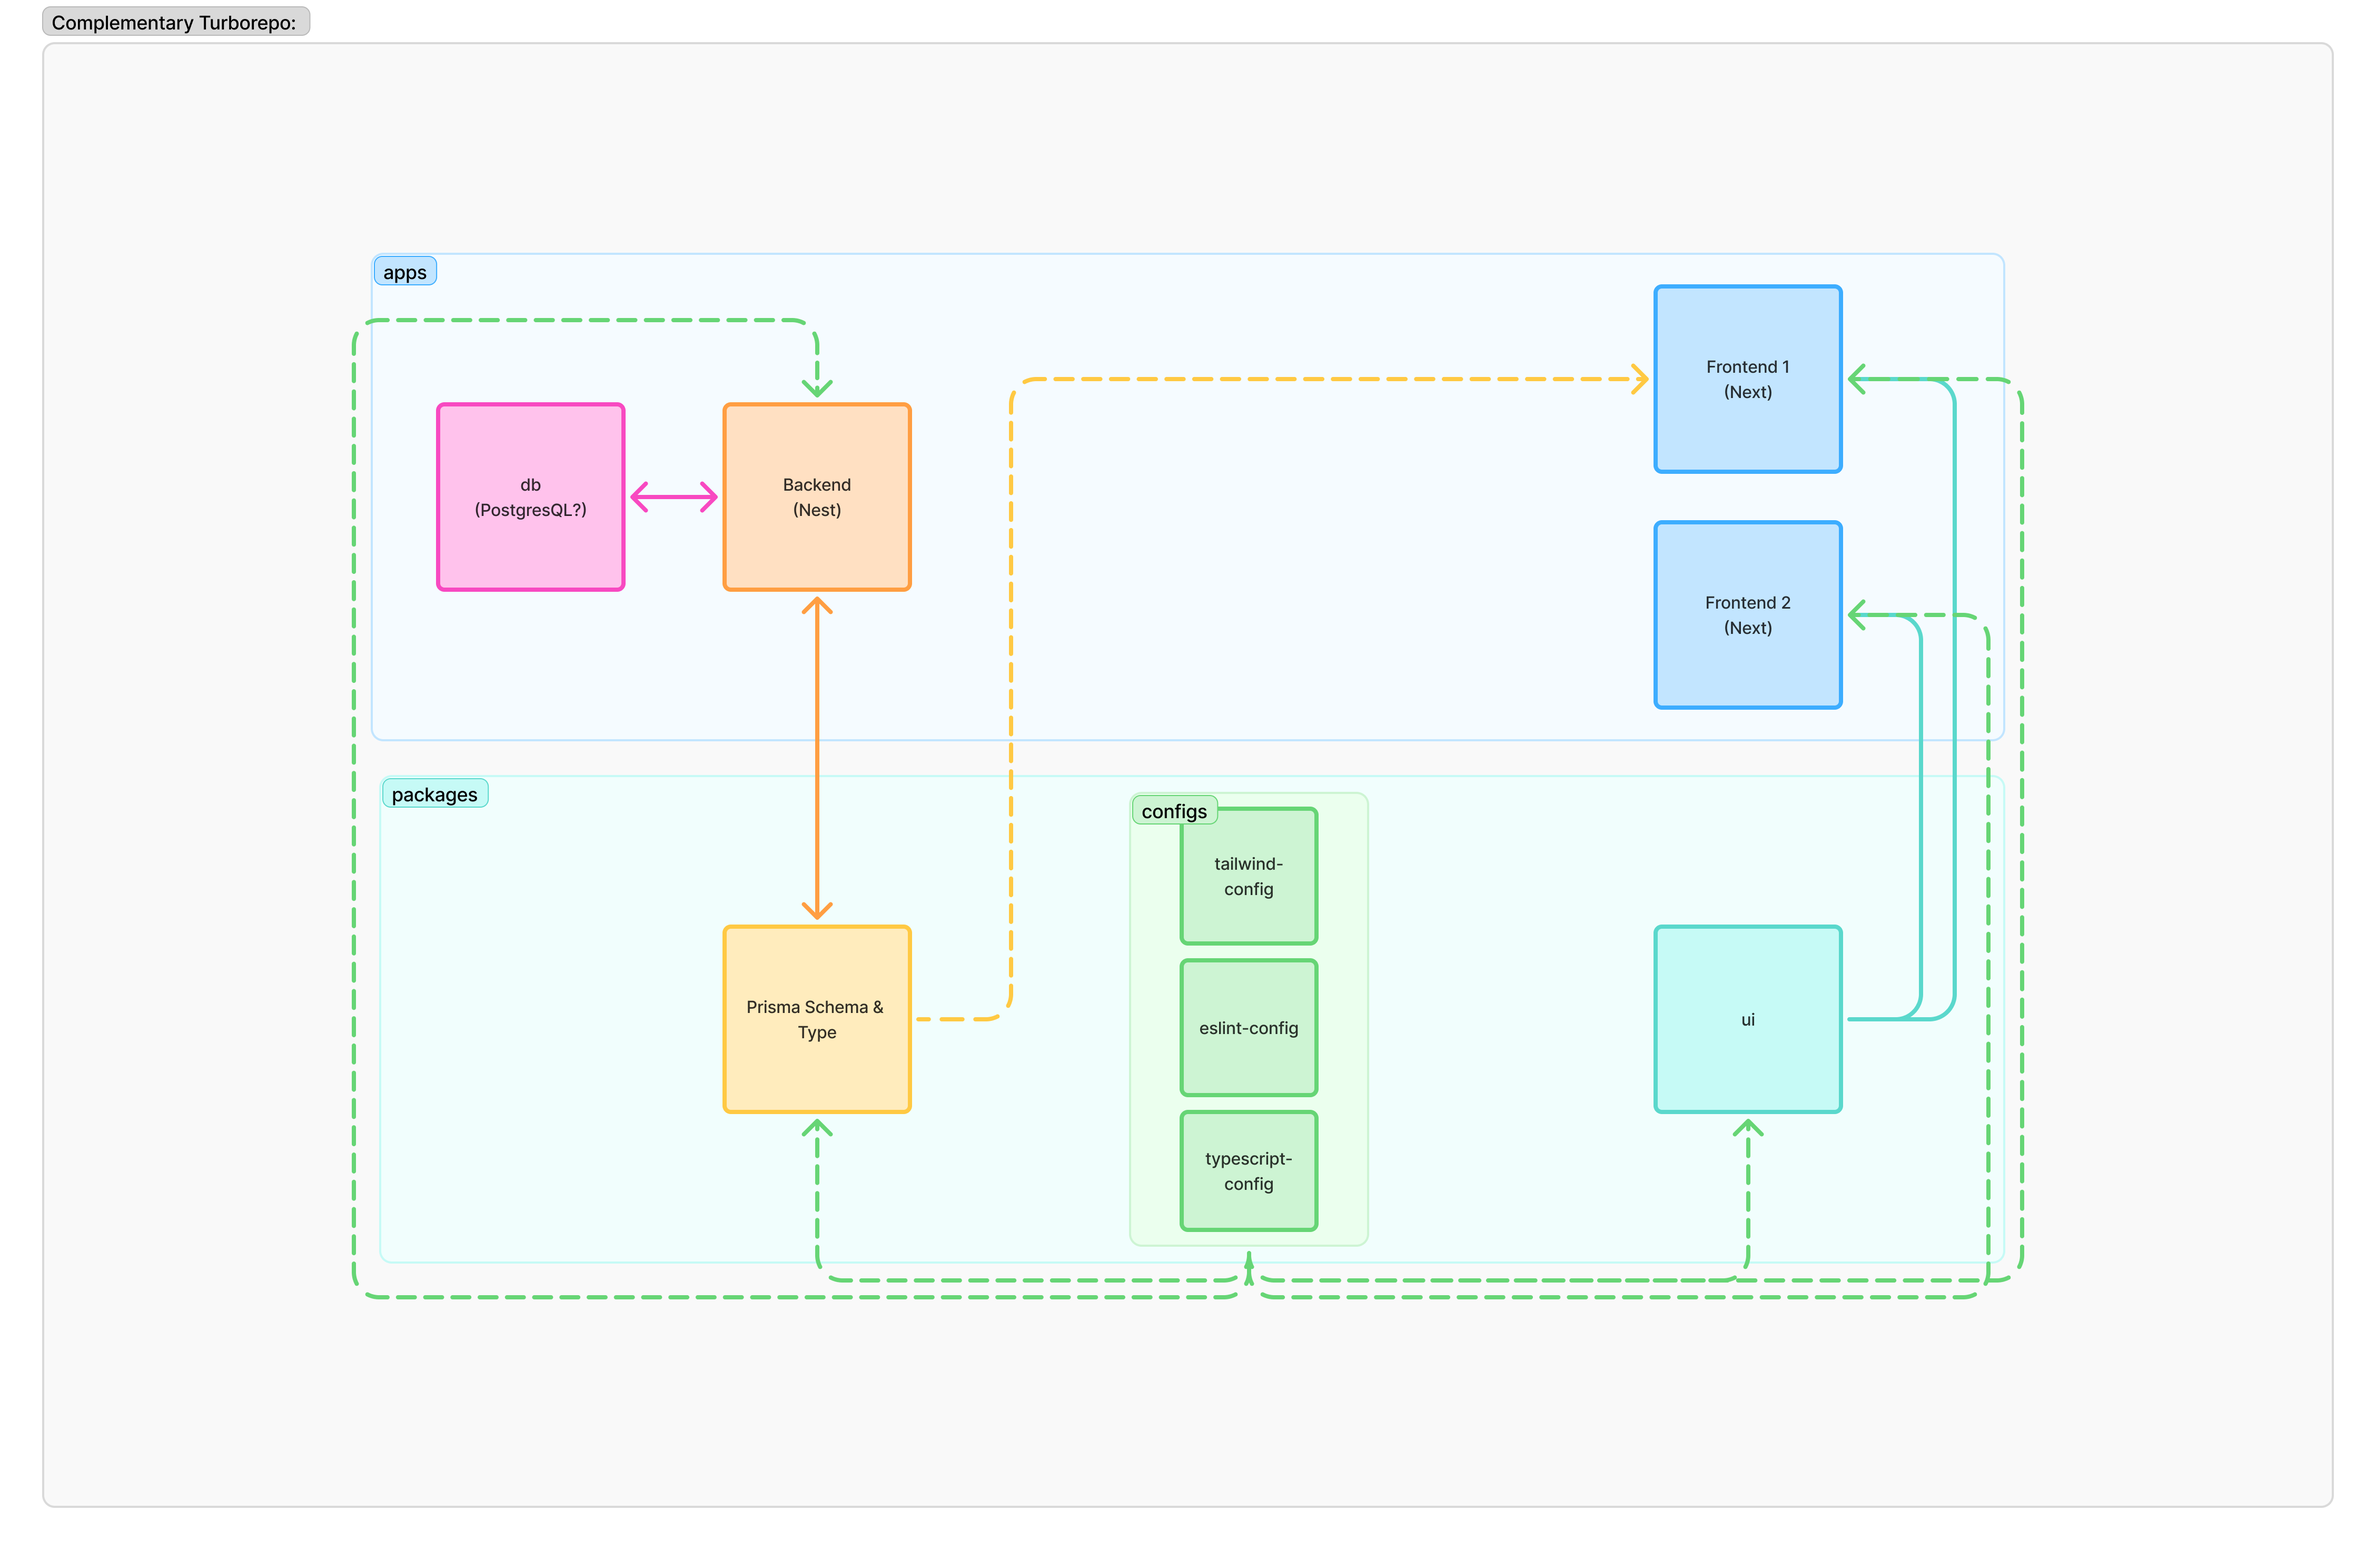
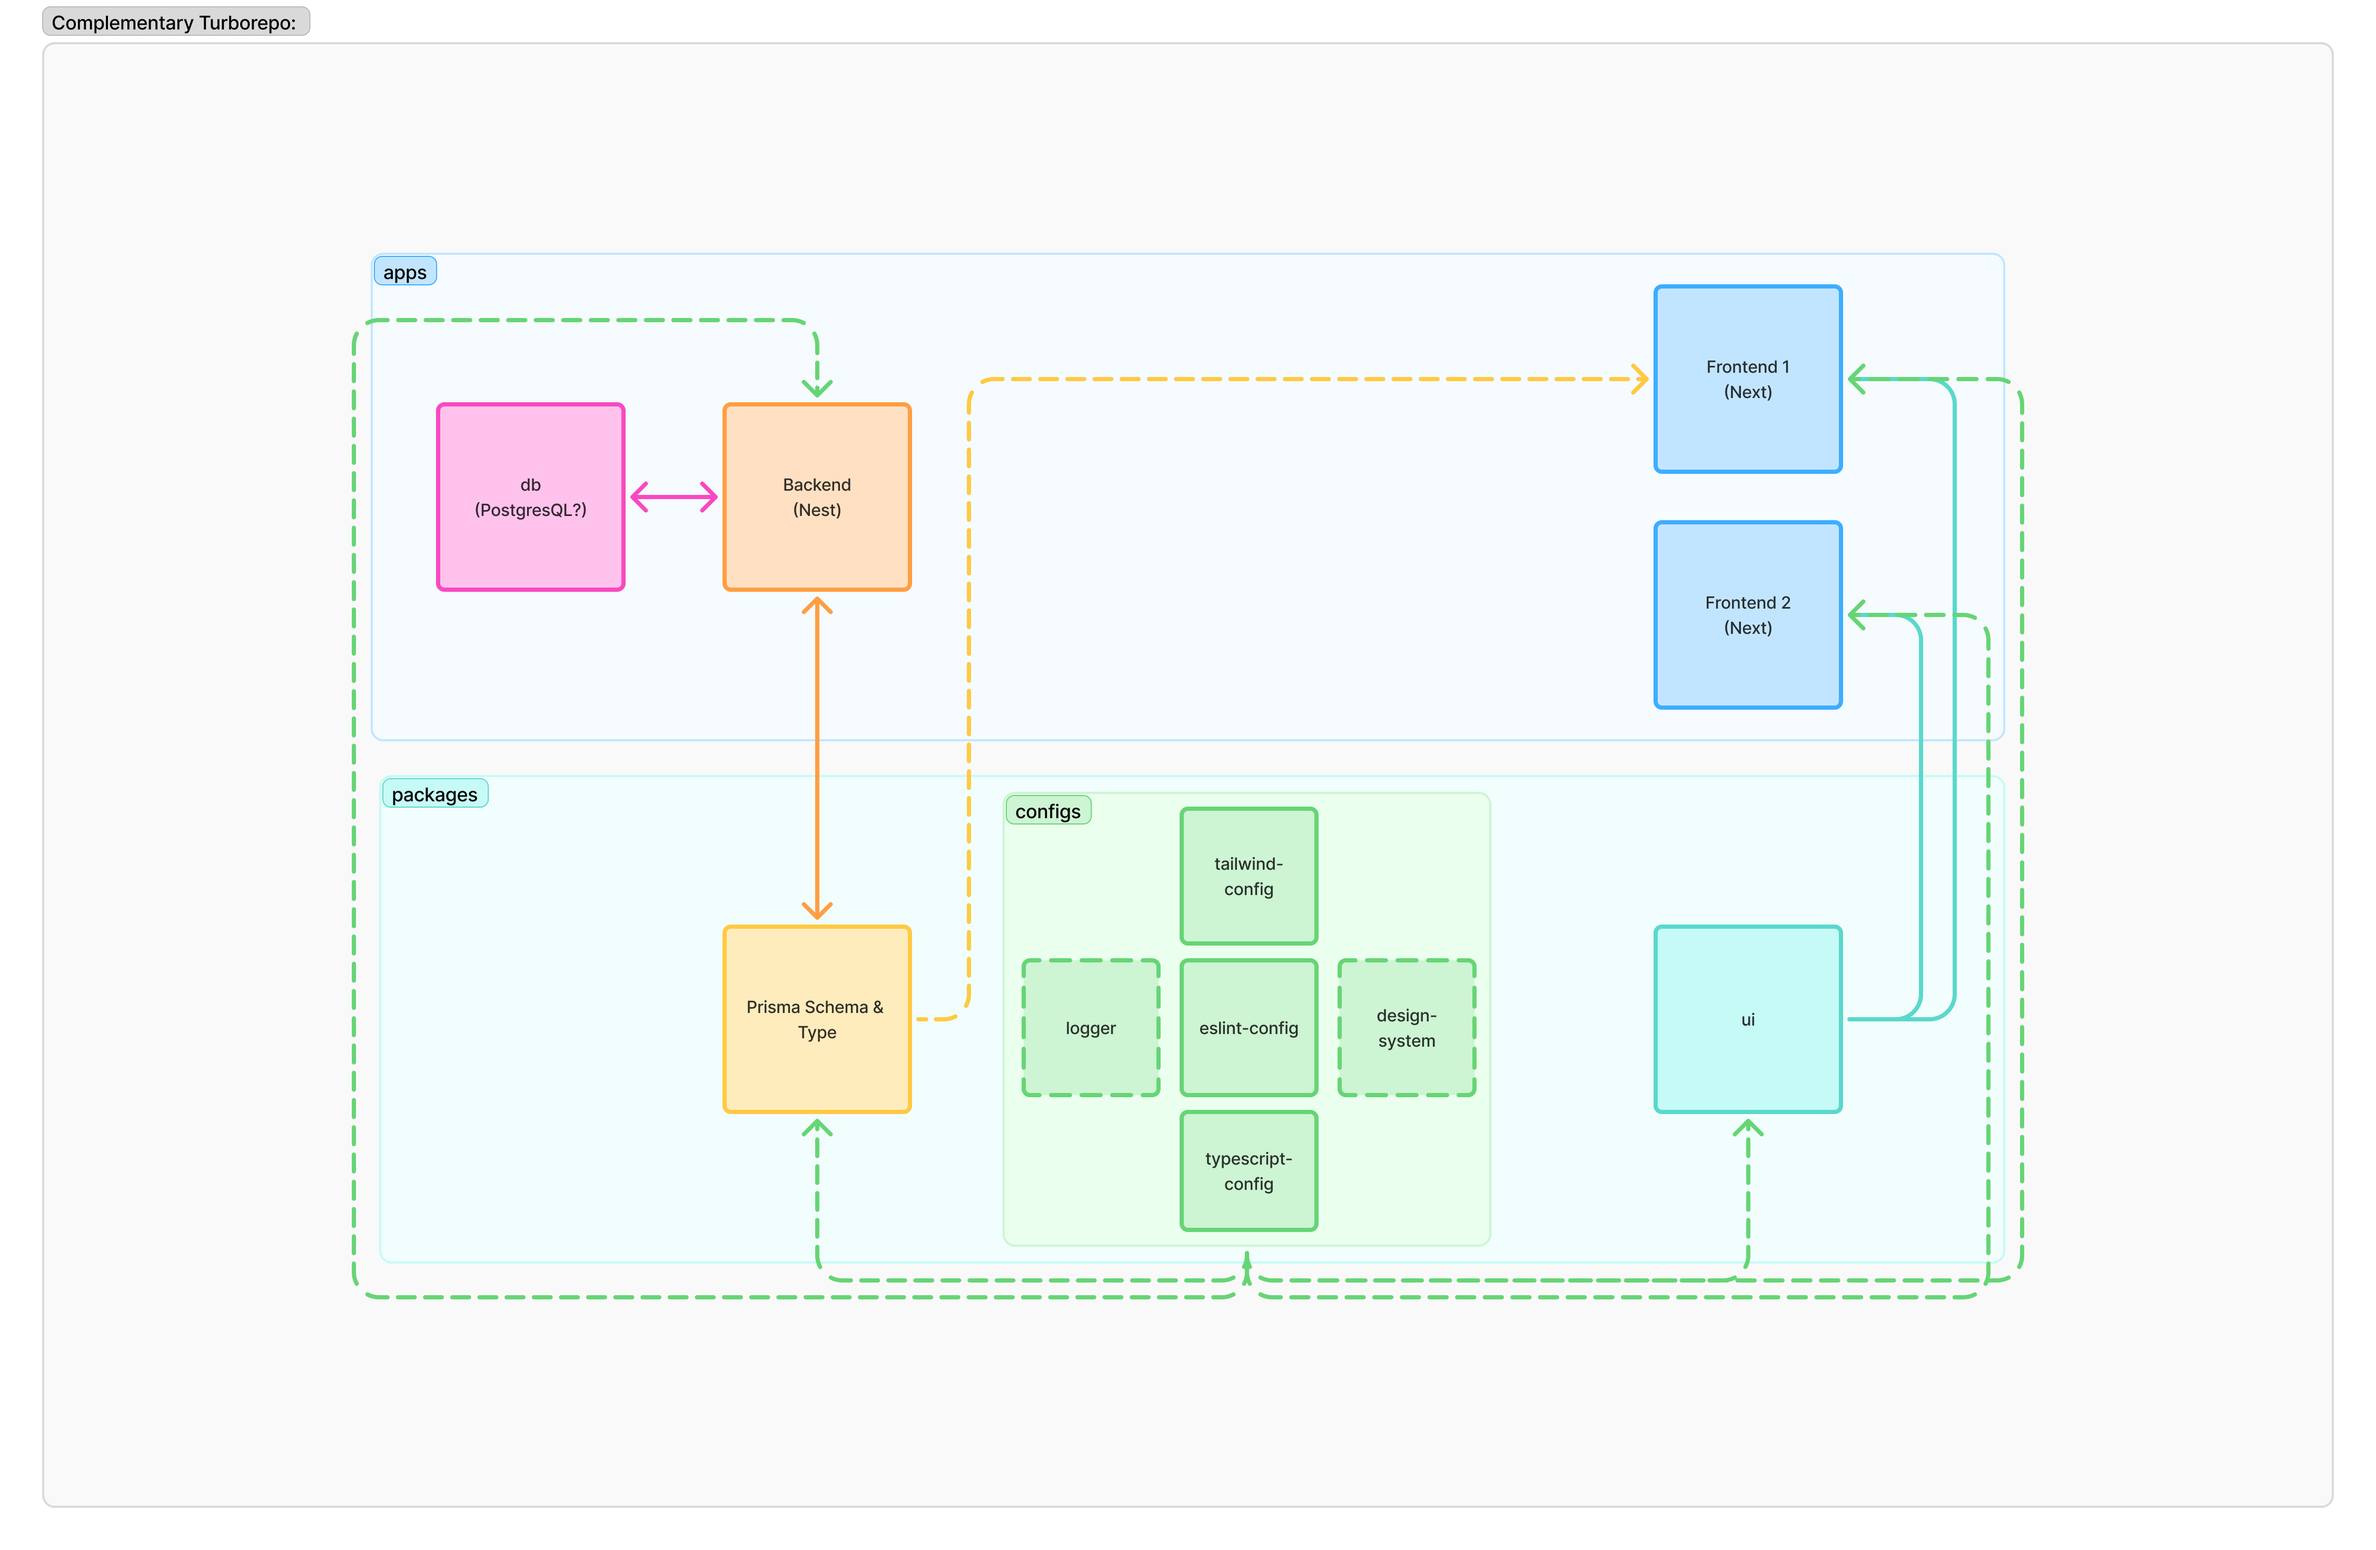
feat(docs): update README.md

Changed region(s): [[0.4062, 0.5, 0.5312, 0.7188], [0.5625, 0.5938, 0.625, 0.7188]]

diff --git a/README.md b/README.md
@@ -11,27 +11,42 @@ This Turborepo includes the following packages & apps:
 ```shell
 .
 ├── apps
-│   ├── admin                     # Next.js admin dashboard (port 3002)
-│   ├── api                       # NestJS app (https://nestjs.com) with Prisma integration
-│   ├── db                        # PostgreSQL database service (Docker Compose)
-│   └── web                       # Next.js app (https://nextjs.org) displaying database results
+│   ├── admin                     # Next.js 16 admin dashboard        → http://localhost:3002
+│   ├── api                       # NestJS 11 API with Prisma         → http://localhost:3000
+│   ├── db                        # PostgreSQL 16 (Docker Compose)    → localhost:5433
+│   └── web                       # Next.js 16 frontend               → http://localhost:3001
 └── packages
-    ├── @repo/design-system       # Shared design system (Tailwind config, colors, global styles)
-    ├── @repo/eslint-config       # `eslint` configurations (includes `prettier`)
-    ├── @repo/jest-config         # `jest` configurations
-    ├── @repo/prisma              # Shared Prisma client, schema, and types
-    ├── @repo/typescript-config   # `tsconfig.json`s used throughout the monorepo
-    └── @repo/ui                  # Shareable React component library with Tailwind
+    ├── @repo/design-system       # Tailwind 4 config, colors, global styles
+    ├── @repo/eslint-config       # ESLint configurations (includes Prettier)
+    ├── @repo/jest-config         # Jest configurations
+    ├── @repo/prisma              # Prisma 7 client, schema, and types
+    ├── @repo/typescript-config   # TypeScript configurations
+    └── @repo/ui                  # React 19 component library with Tailwind
 ```
 
 Each package and application are written in [TypeScript](https://www.typescriptlang.org/).
 
-### Tech Stack
+### Tech Stack & Versions
+
+| Component                          | Version            | Port |
+| ---------------------------------- | ------------------ | ---- |
+| **NestJS API** (`apps/api`)        | ^11.0.0            | 3000 |
+| **Next.js Web** (`apps/web`)       | ^16.0.7            | 3001 |
+| **Next.js Admin** (`apps/admin`)   | ^16.0.7            | 3002 |
+| **PostgreSQL** (`apps/db`)         | 16-alpine          | 5433 |
+| **Prisma ORM** (`packages/prisma`) | ^7.1.0             | -    |
+| **React**                          | ^19.1.0            | -    |
+| **Tailwind CSS**                   | ^4.1.11            | -    |
+| **TypeScript**                     | 5.5.4+             | -    |
+| **Node.js**                        | >=20.19 or >=22.12 | -    |
+
+**Core Technologies:**
 
 - **Backend**: [NestJS](https://nestjs.com/) - Progressive Node.js framework
 - **Frontend**: [Next.js](https://nextjs.org/) - React framework with App Router
 - **Database**: [PostgreSQL](https://www.postgresql.org/) - Relational database
-- **ORM**: [Prisma](https://www.prisma.io/) - Next-generation ORM
+- **ORM**: [Prisma](https://www.prisma.io/) - Next-generation ORM (v7)
+- **Styling**: [Tailwind CSS](https://tailwindcss.com/) - Utility-first CSS framework (v4)
 - **Monorepo**: [Turborepo](https://turbo.build/repo) - High-performance build system
 
 ### Utilities
